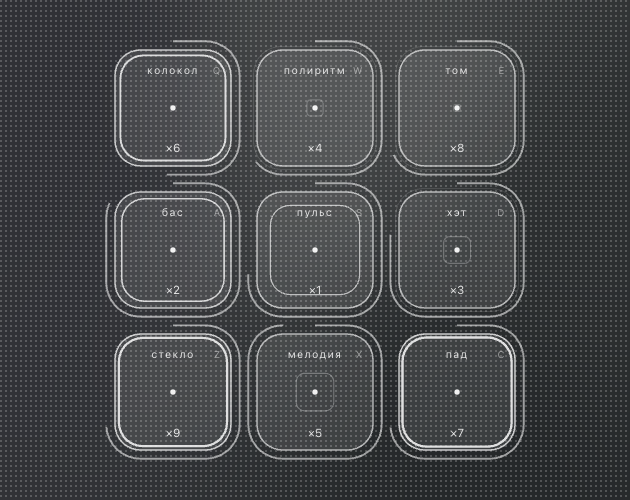
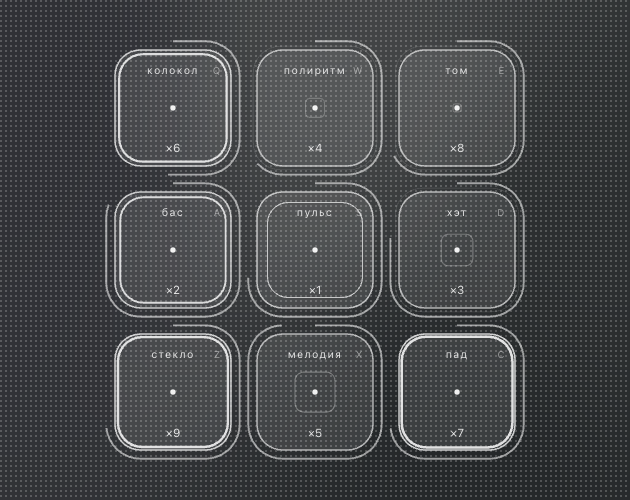
Подсказку по клавишам — под настройки, в их цвете
Строка уехала из правого нижнего угла в блок настроек: теперь она стоит
прямо под ними и на титуле, и на пульте паузы, тем же цветом #a49f97,
кеглем 10 и трекингом 0.2em, что и подписи настроек.

Из HUD убрана совсем: на титуле её всё равно прятало правило
body.on-title .hud, а во время игры она была лишним шумом в углу. Клавиши —
справочная информация, ей место рядом с остальными настройками.

Замер: цвет, кегль и трекинг совпадают с подписями настроек до единицы,
строка на 13 px ниже ряда.

diff --git a/index.html b/index.html
@@ -4,7 +4,7 @@
 <meta charset="utf-8">
 <meta name="viewport" content="width=device-width, initial-scale=1">
 <title>втакт</title>
-<link rel="stylesheet" href="styles.css?v=39">
+<link rel="stylesheet" href="styles.css?v=40">
 </head>
 <body>
   <canvas id="stage"></canvas>
@@ -19,7 +19,6 @@
     <div class="hud hud-tempo">
       <span id="hud-tempo" class="hud-num">84</span><span class="hud-cap" data-i18n="hud.bpm">уд/мин</span>
     </div>
-    <div id="hud-keys" class="hud hud-keys" data-i18n="hud.keys"></div>
     <div id="hint" class="hint"></div>
 
     <div id="over" class="pause-screen" hidden>
@@ -35,12 +34,15 @@
 
     <div id="pause" class="pause-screen" hidden>
       <div class="pause-word" data-i18n="pause.word">пауза</div>
-      <div class="settings">
-        <label class="set-row">
-          <span class="set-cap" data-i18n="set.volume">громкость</span>
-          <input class="vol" type="range" min="0" max="100" step="1" value="80">
-        </label>
-        <button class="set-btn full-btn" type="button" data-i18n="set.fullscreen">во весь экран</button>
+      <div class="settings-block">
+        <div class="settings">
+          <label class="set-row">
+            <span class="set-cap" data-i18n="set.volume">громкость</span>
+            <input class="vol" type="range" min="0" max="100" step="1" value="80">
+          </label>
+          <button class="set-btn full-btn" type="button" data-i18n="set.fullscreen">во весь экран</button>
+        </div>
+        <div class="set-keys" data-i18n="hud.keys"></div>
       </div>
       <div class="pause-actions">
         <button id="pause-resume" class="pause-btn" type="button" data-i18n="pause.resume">продолжить</button>
@@ -64,13 +66,16 @@
         <div class="title-go" data-i18n="title.go">нажмите, чтобы начать</div>
       </div>
 
-      <div class="settings title-settings">
-        <label class="set-row">
-          <span class="set-cap" data-i18n="set.volume">громкость</span>
-          <input class="vol" type="range" min="0" max="100" step="1" value="80">
-        </label>
-        <button class="set-btn full-btn" type="button" data-i18n="set.fullscreen">во весь экран</button>
-        <button class="set-btn lang-btn" type="button" data-i18n="set.lang">english</button>
+      <div class="settings-block title-settings">
+        <div class="settings">
+          <label class="set-row">
+            <span class="set-cap" data-i18n="set.volume">громкость</span>
+            <input class="vol" type="range" min="0" max="100" step="1" value="80">
+          </label>
+          <button class="set-btn full-btn" type="button" data-i18n="set.fullscreen">во весь экран</button>
+          <button class="set-btn lang-btn" type="button" data-i18n="set.lang">english</button>
+        </div>
+        <div class="set-keys" data-i18n="hud.keys"></div>
       </div>
 
       <button id="change-name" class="link-btn" type="button" data-i18n="title.changeName" hidden>сменить имя</button>
@@ -78,9 +83,9 @@
   </div>
 
   <!-- ?v= — против кэша GitHub Pages (max-age=600): поднимать при правках -->
-  <script src="store.js?v=39"></script>
-  <script src="i18n.js?v=39"></script>
-  <script src="audio.js?v=39"></script>
-  <script src="game.js?v=39"></script>
+  <script src="store.js?v=40"></script>
+  <script src="i18n.js?v=40"></script>
+  <script src="audio.js?v=40"></script>
+  <script src="game.js?v=40"></script>
 </body>
 </html>

diff --git a/styles.css b/styles.css
@@ -47,7 +47,6 @@ body {
 .hud-score { top: 28px; left: 32px; }
 .hud-best  { top: 60px; left: 32px; }
 .hud-tempo { top: 28px; right: 32px; }
-.hud-keys  { bottom: 26px; right: 32px; opacity: 0.5; }
 
 .hud-score, .hud-tempo, .hud-best {
   display: flex;
@@ -176,14 +175,28 @@ body.on-title .hud { opacity: 0; }
 
 /* --- настройки --- */
 
+.settings-block {
+  display: flex;
+  flex-direction: column;
+  align-items: center;
+  gap: 13px;
+  pointer-events: auto;
+}
+
 .settings {
   display: flex;
   align-items: center;
   gap: 28px;
-  pointer-events: auto;
 }
 
 .title-settings { margin-top: 30px; }
+
+/* подсказка по клавишам живёт под настройками и в их же цвете */
+.set-keys {
+  font-size: 10px;
+  letter-spacing: 0.2em;
+  color: #a49f97;
+}
 
 .set-row {
   display: flex;
